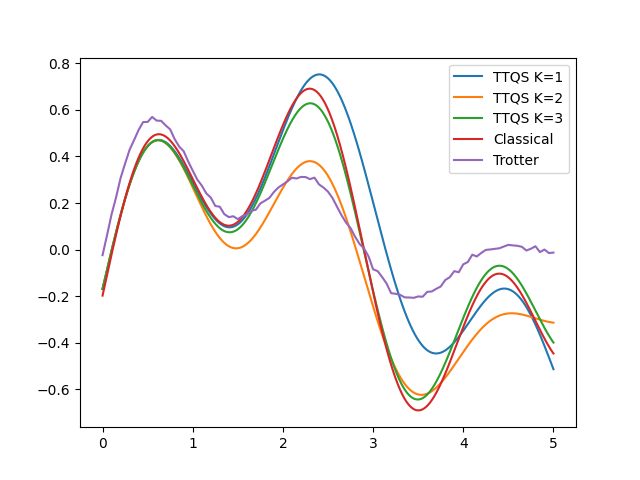
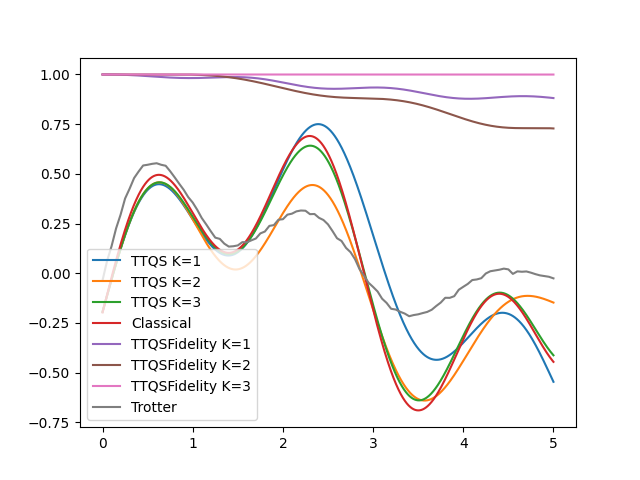
Jon trot

diff --git a/Forjontoteststuff.py b/Forjontoteststuff.py
@@ -203,7 +203,7 @@ for k in range(1,uptowhatK+1):
     finalresults.append(ansatz)'''
 
 #Plotting results for fidelity
-#plotp.QS_plotter_for_fidelity(num_qubits,finalresults,times,whatK,'TTQS',hamiltonian,initial_state)
+plotp.QS_plotter_for_fidelity(num_qubits,finalresults,times,whatK,'TTQS',hamiltonian,initial_state)
 #plotp.print_plot("Jonstufftesting/plottqs.png")
 
 trottertimes = []
